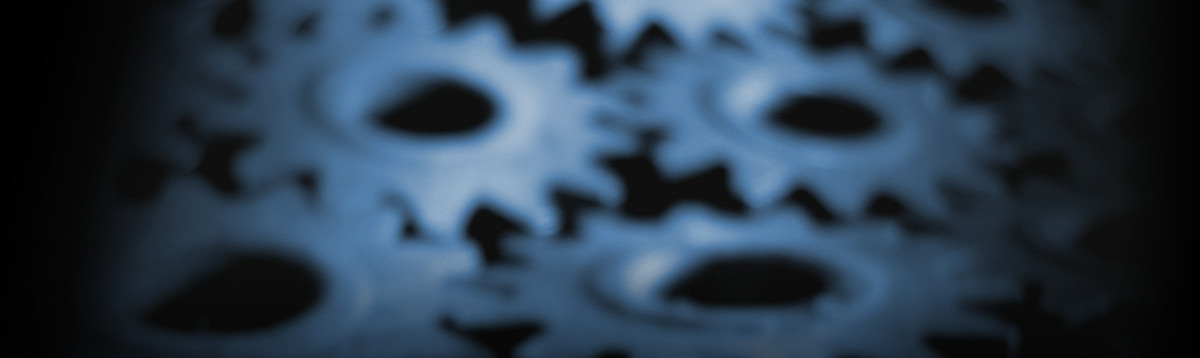
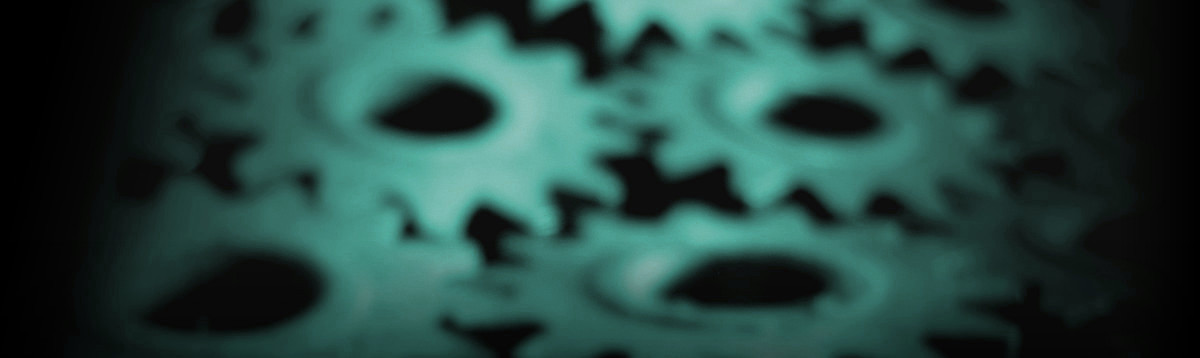
Turn to green

diff --git a/public/css/themes.less b/public/css/themes.less
@@ -104,20 +104,26 @@
 /*  Green*/
 .theme-green {
 
-    @activeColor:#44A823;
-    @bodyBackground:mix(@white, @activeColor);
-    @basicBackground:@white;
-    @altBackground:lighten(@bodyBackground, 5);
-    @basicColor:@bodyBackground;
-    @altColor:@white;
+    @bodyBackground:lighten(@activeColor, 10);
+    @basicBackground:@bodyBackground;
+    @altBackground:darken(@bodyBackground, 5);
+    @basicColor:@white;
+    @altColor:darken(@bodyBackground, 25);
     @basicRadius:0;
     
-    .build-theme(@bodyBackground, @basicBackground, @altBackground, @basicColor, @altColor, @activeColor, @basicRadius);
-              
+    .build-theme(@bodyBackground, @basicBackground, @altBackground, @basicColor, @altColor, @white, @basicRadius);
+    
+    #overflow .credits a, 
+    #overflow .credits a:hover, 
+    #overflow .credits a:visited {
+        color: @white; 
+        text-decoration:underline;
+    }
+
     #overflow {
-        .box-shadow(0 0 0 1px lighten(#44A823, 30) );                  
         h1, h2, h3 {
-            font-family:Helvetica Neue, Helvetica, Arial;
+            font-weight:200;
+            font-family:@serifFontFamily;
         }
     }
 }

diff --git a/public/css/style.less b/public/css/style.less
@@ -13,7 +13,7 @@
 @containerWidth  : 940px;
 @containerHeight : 600px;
 
-@activeColor: #60A5E5;
+@activeColor: #33BFA1;
 @bgColor: #505050;
 @menuColor: @bgColor;
 @containerColor:#232325;
@@ -246,7 +246,7 @@ body {
                         height:70px;                
                         padding:0;
                         background:@white center center no-repeat;
-                        border:10px solid @menuColor;
+                        border:10px solid lighten(@menuColor, 30);
                         
                         &.twitter {
                             background-image:url("/img/twitter.png");

diff --git a/public/css/bootstrap-overload.less b/public/css/bootstrap-overload.less
@@ -1,8 +1,8 @@
 .btn {
     cursor:pointer;
 }
-.btn-save {
-    @bg: #31475E;
+.btn-dp {
+    @bg: darken(@activeColor, 20);
     .buttonBackground(@bg, @bg);
     &:hover {
         .buttonBackground(lighten(@bg, 5), lighten(@bg, 5));        
